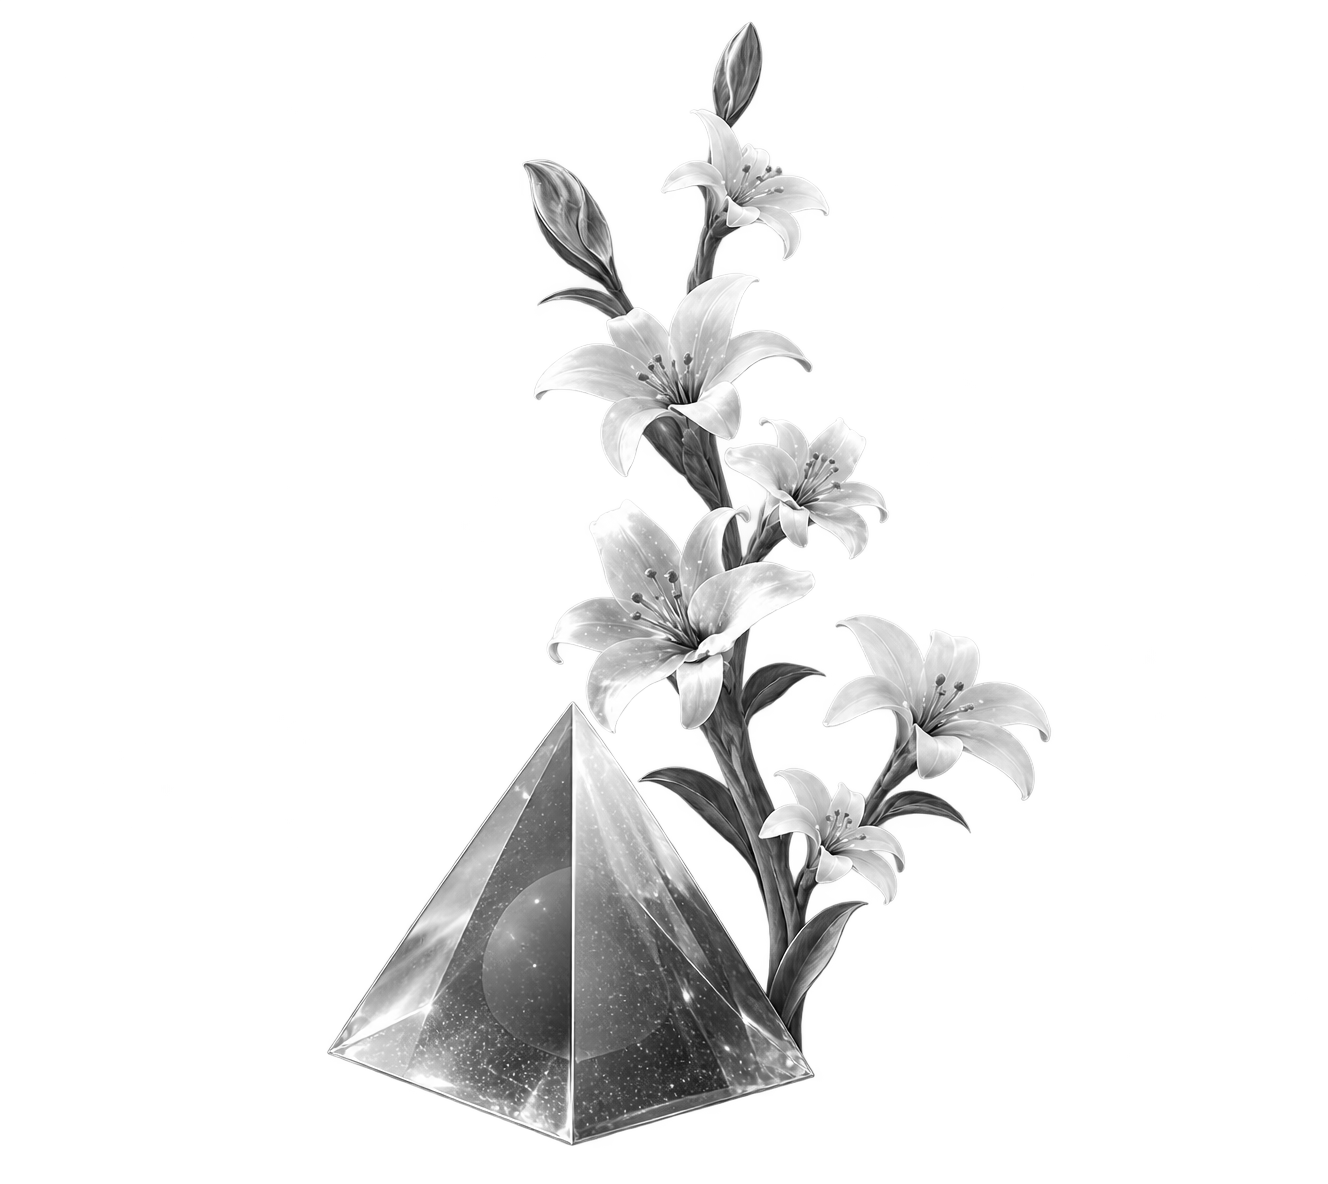
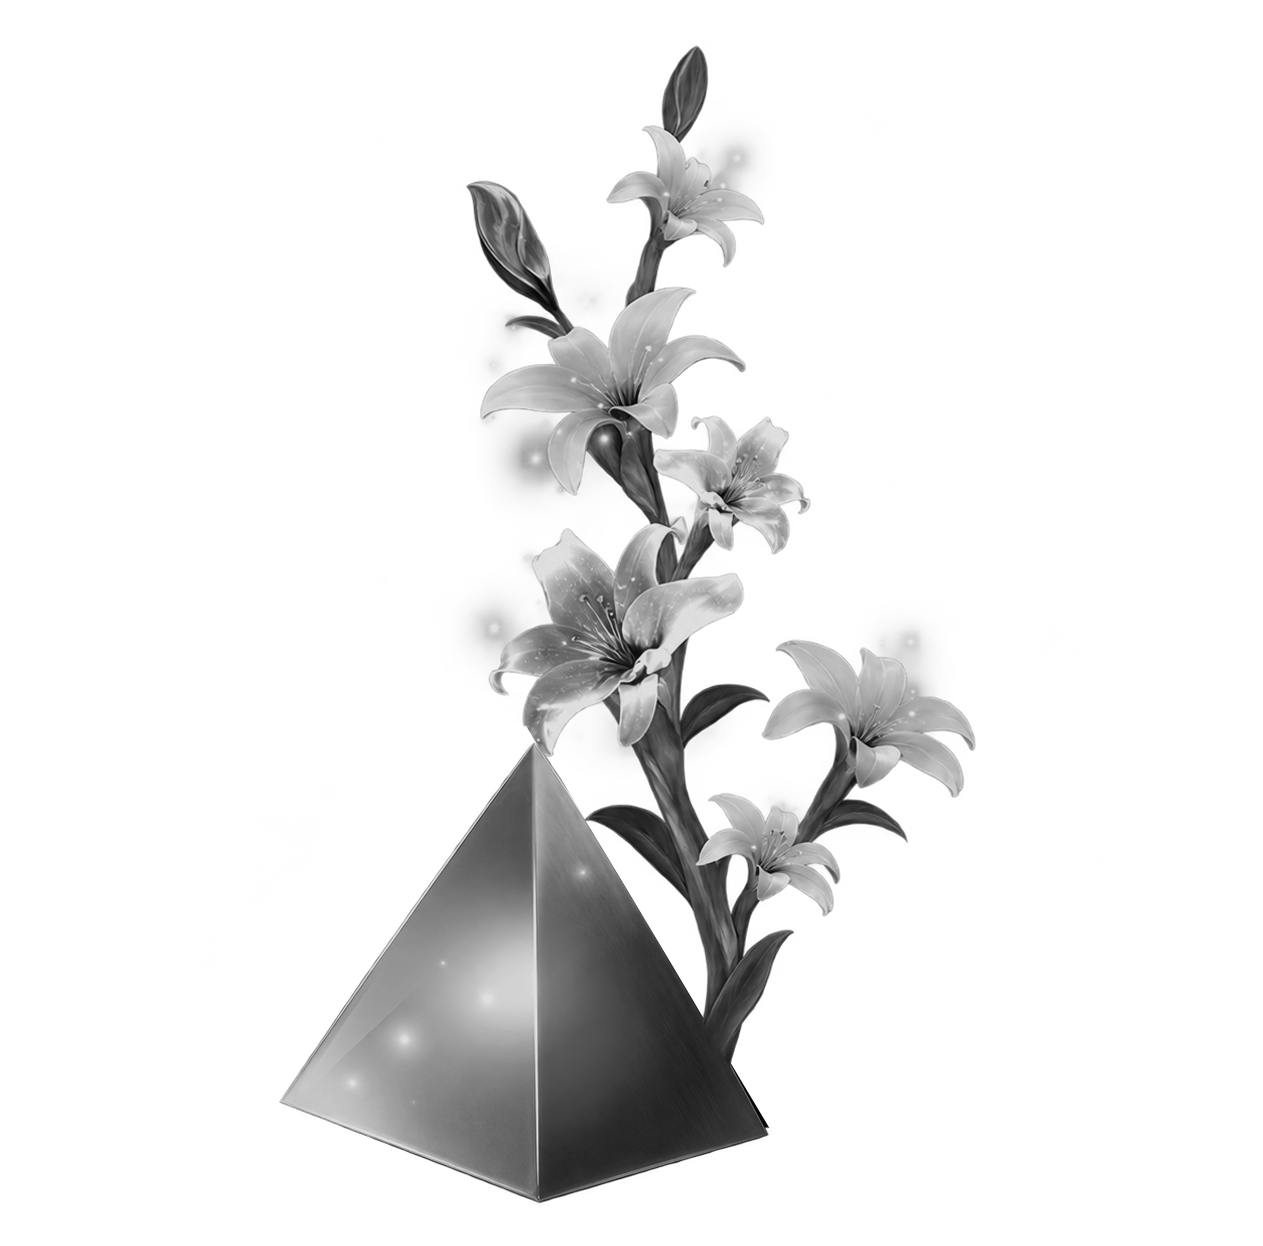
Align fragrance artwork and refine daytime colors and placement

Changed region(s): [[0.2162, 0.0, 0.8029, 0.9688]]

diff --git a/voyah-iran/app/src/test/java/com/abrar/voyahiran/feature/launcher/FragranceGeometryContractTest.kt b/voyah-iran/app/src/test/java/com/abrar/voyahiran/feature/launcher/FragranceGeometryContractTest.kt
@@ -1,0 +1,26 @@
+package com.abrar.voyahiran.feature.launcher
+
+import java.io.File
+import javax.imageio.ImageIO
+import org.junit.Assert.*
+import org.junit.Test
+
+/** Theme/power changes must never move a flower, leaf, or pyramid silhouette. */
+class FragranceGeometryContractTest {
+    @Test fun allVariantsShareCanvasAndPerScentAlpha() {
+        val assets=File("src/main/assets/passenger/fragrance-wide")
+        val master=ImageIO.read(File(assets,"object-2.png"))
+        for(tone in 1..3) {
+            val base=ImageIO.read(File(assets,"object-$tone.png"))
+            val day="object-$tone-day-v${if(tone==2)2 else 1}"
+            for(name in listOf("object-$tone","object-$tone-gray",day,"$day-gray")) {
+                val variant=ImageIO.read(File(assets,"$name.png"))
+                assertEquals(name,master.width,variant.width)
+                assertEquals(name,master.height,variant.height)
+                val a=base.getRGB(0,0,base.width,base.height,null,0,base.width)
+                val b=variant.getRGB(0,0,variant.width,variant.height,null,0,variant.width)
+                assertTrue("Alpha geometry drift: $name",a.indices.all{a[it] ushr 24==b[it] ushr 24})
+            }
+        }
+    }
+}

diff --git a/voyah-iran/app/src/main/java/com/abrar/voyahiran/feature/launcher/PassengerFragranceView.kt b/voyah-iran/app/src/main/java/com/abrar/voyahiran/feature/launcher/PassengerFragranceView.kt
@@ -100,7 +100,9 @@ internal class PassengerFragranceView(context:Context):View(context) {
     private fun scene(c:Canvas,tone:Int){
         staticArtwork.draw(c,"fragrance-${if(light)"light"else "dark"}-$tone-$on${if(grayscale)"-gray"else ""}",RectF(0f,0f,770f,280f))
         c.save();c.translate(28.0464f,0f);c.scale(.927152f,.927152f)
-        image(c,"object-$tone"+if(light)if(tone==2)"-day-v2" else "-day-v1" else "",RectF(467f,46f,707f,242f),alpha=(191+64*motion.value("power",if(on)1f else 0f)).toInt())
+        // Offset in the 770x280 card coordinates, compensating for the scene scale.
+        val objectRect=RectF(467f,46f,707f,242f).apply{offset(10f/.927152f,3f/.927152f)}
+        image(c,"object-$tone"+if(light)if(tone==2)"-day-v2" else "-day-v1" else "",objectRect,alpha=(191+64*motion.value("power",if(on)1f else 0f)).toInt())
         val label=if(light)color(when(tone){1->"#707985";2->"#747970";else->"#7c7182"}) else Color.WHITE
         text(c,listOf("","Watery mist","Fresh bamboo","Peony scarlet")[tone],587f,37f,20f,label)
         c.save();c.scale(1.1f,1.1f,215f,158f)
